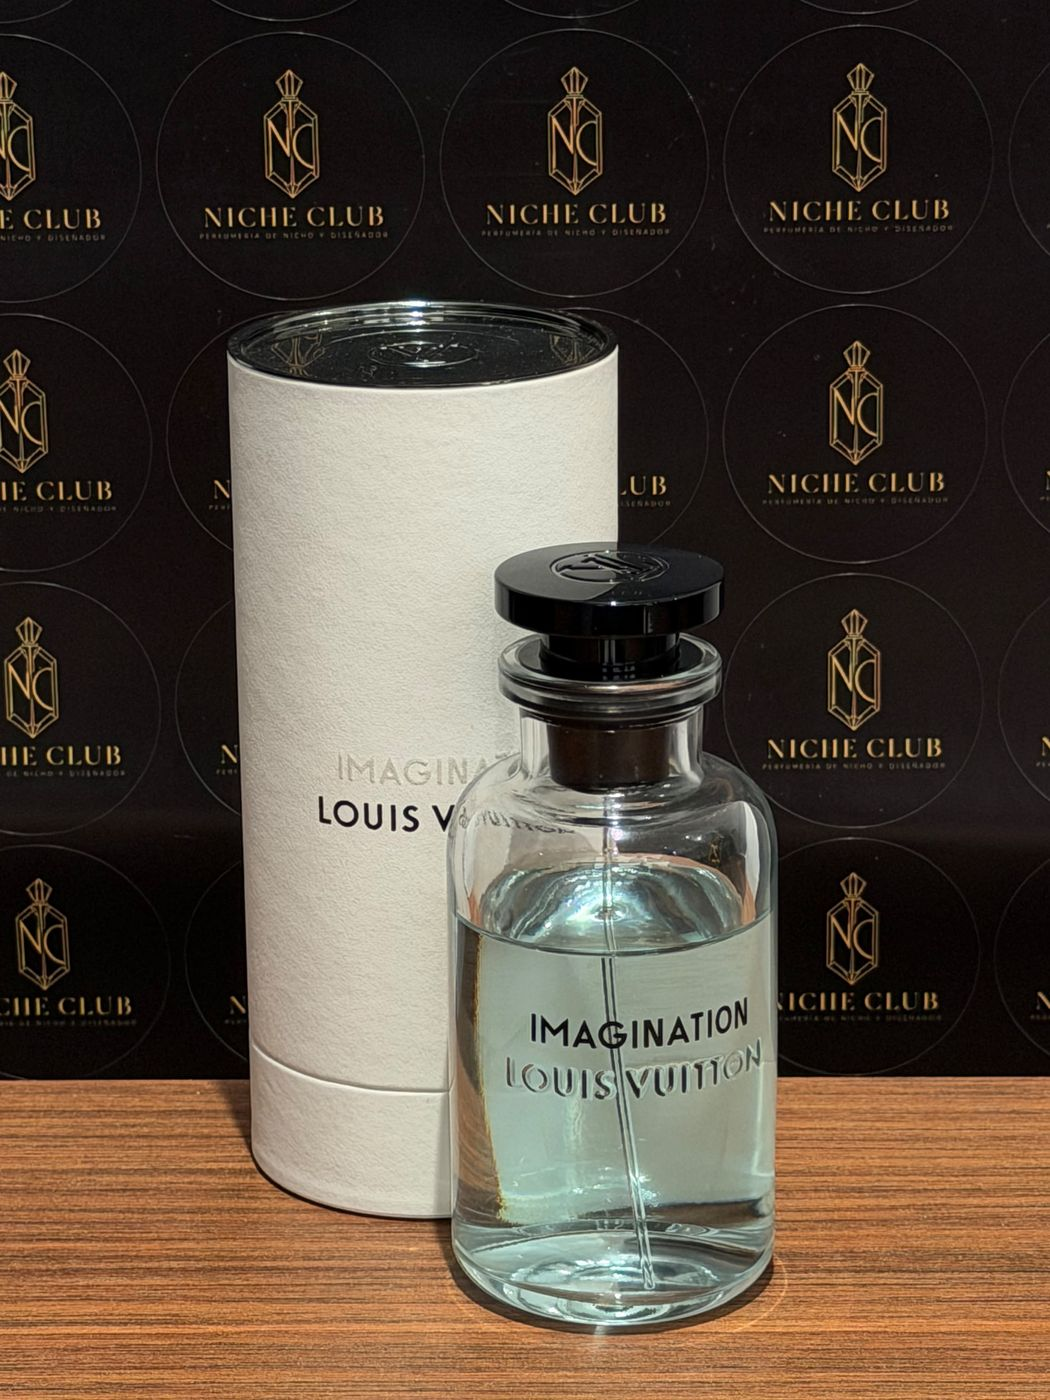
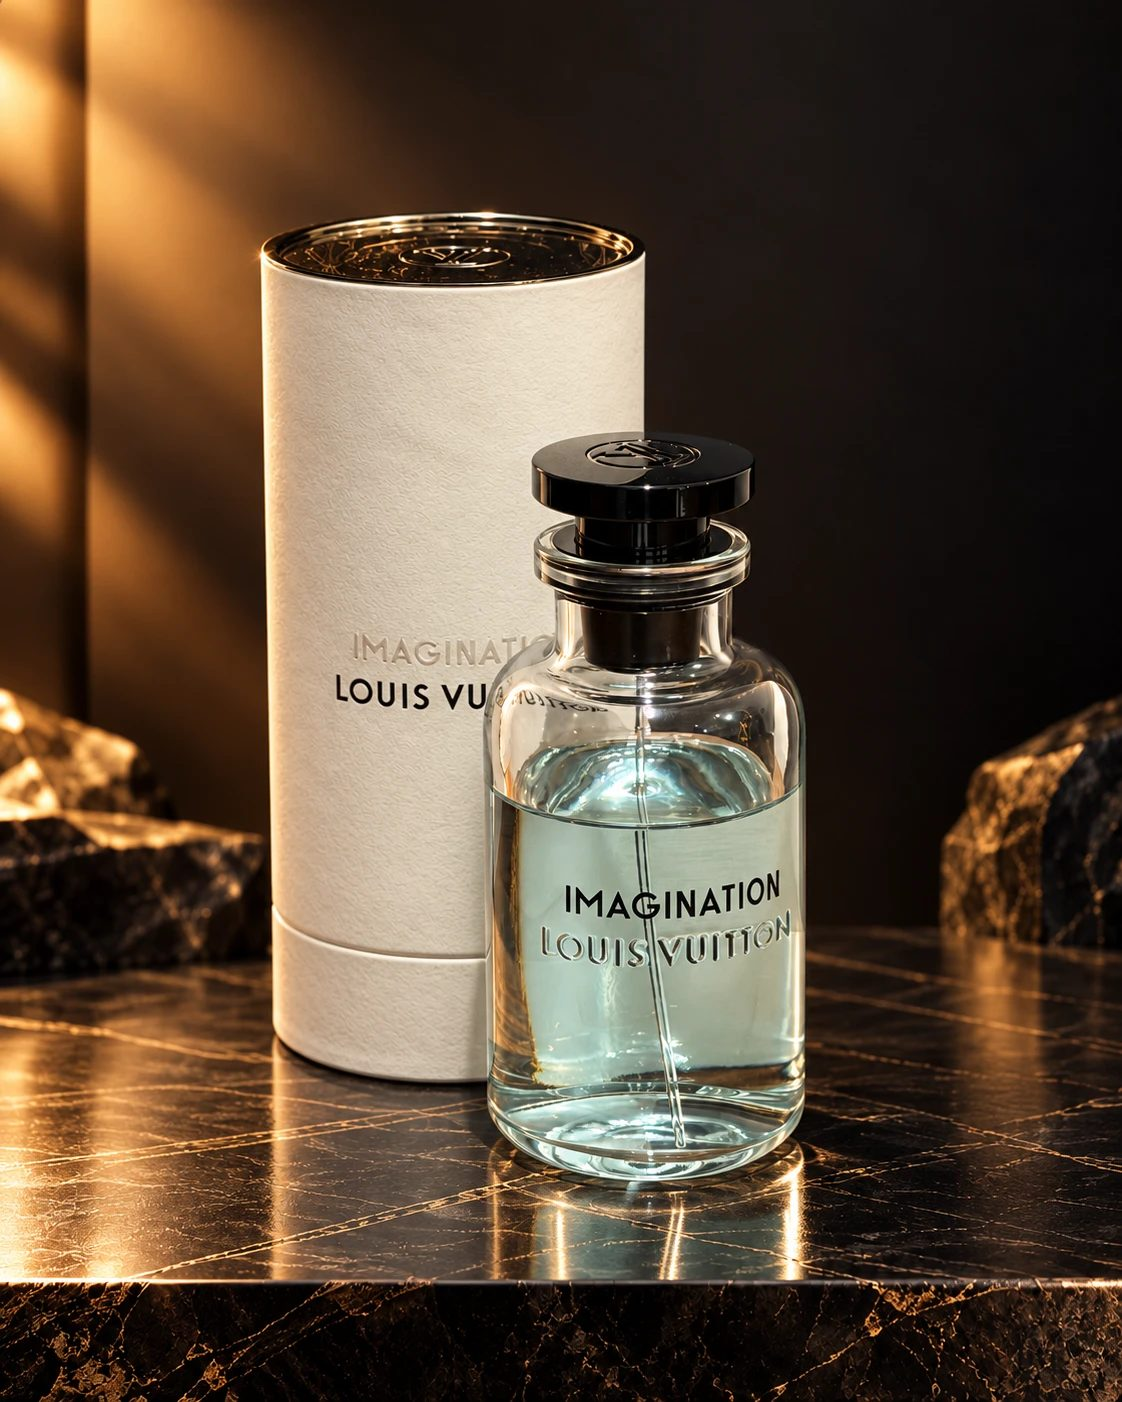
Fotos nuevas, header simplificado, portada más legible, fondo en CTA final y config para Hostinger

diff --git a/Niche Club.dc.html b/Niche Club.dc.html
@@ -94,7 +94,7 @@
 
 <div style="background:#080808;color:#FFFFFF;font-family:'Manrope',sans-serif;overflow-x:hidden">
 
-  <header data-nc-header="1" style="position:sticky;top:0;z-index:40;transition:background .5s ease;background:transparent">
+  <header data-nc-header="1" style="position:sticky;top:0;z-index:40;transition:background .5s ease;background:rgba(8, 8, 8, 0.62);-webkit-backdrop-filter:blur(10px);backdrop-filter:blur(10px);border-bottom:1px solid rgba(227,196,146,0.08)">
     <div class="nc-hd" style="max-width:1400px;margin:0 auto;padding:10px 22px;display:flex;flex-wrap:wrap;align-items:center;gap:8px 18px">
       <a href="#top" style="display:flex;align-items:center;gap:10px;flex:0 0 auto">
         <img src="img/logo.jpeg" alt="Niche Club" style="width:40px;height:40px;object-fit:contain;display:block" />
@@ -102,14 +102,12 @@
       </a>
       <input type="checkbox" id="nc-menu" class="nc-menu-cb" aria-hidden="true" tabindex="-1" />
       <nav class="nc-nav" style="display:flex;gap:18px;overflow-x:auto;margin-right:auto;font:300 11px/1 'Manrope',sans-serif;letter-spacing:.18em;text-transform:uppercase">
-        <a href="#statement" style="color:#CFCAC2;white-space:nowrap;padding:10px 0">Descubrir</a>
         <a href="Fragancias.dc.html" style="color:#CFCAC2;white-space:nowrap;padding:10px 0">Perfumes</a>
         <a href="Fragancias.dc.html#nicho" style="color:#CFCAC2;white-space:nowrap;padding:10px 0">Nicho</a>
         <a href="#disenador" style="color:#CFCAC2;white-space:nowrap;padding:10px 0">Diseñador</a>
         <a href="#arabes" style="color:#CFCAC2;white-space:nowrap;padding:10px 0">Árabes</a>
         <a href="#decants" style="color:#CFCAC2;white-space:nowrap;padding:10px 0">Decants</a>
       </nav>
-      <a class="nc-buscar" href="Fragancias.dc.html#buscar" style="font:300 11px/1 'Manrope',sans-serif;letter-spacing:.18em;text-transform:uppercase;color:#CFCAC2;padding:12px 0;flex:0 0 auto" style-hover="color:#E3C492">Buscar</a>
       <a href="Fragancias.dc.html#carrito" style="display:flex;align-items:center;gap:8px;border:1px solid rgba(227,196,146,0.3);color:#FFFFFF;padding:11px 15px;font:400 11px/1 'Manrope',sans-serif;letter-spacing:.16em;text-transform:uppercase;min-height:44px;white-space:nowrap;flex:0 0 auto;border-radius:999px" style-hover="background:#E3C492;color:#080808;border-color:#E3C492">Carrito <span style="color:#E3C492">{{ cartCount }}</span></a>
       <label for="nc-menu" class="nc-burger" aria-label="Abrir menú"><span></span><span></span><span></span></label>
     </div>
@@ -119,30 +117,30 @@
     <a href="Fragancias.dc.html#nicho" data-nc-panel="1" onMouseOver="{{ onPanelOver }}" onMouseOut="{{ onPanelOut }}" onFocus="{{ onPanelOver }}" onBlur="{{ onPanelOut }}" style="position:relative;flex:1 1 240px;min-height:clamp(280px,50vh,1100px);overflow:hidden;display:flex;align-items:flex-end;justify-content:center;filter:brightness(0.86);transition:flex-grow .7s cubic-bezier(.2,.7,.2,1),filter .7s ease">
       <img src="img/layton-exclusif.jpeg" alt="Parfums de Marly Layton Exclusif en Niche Club" style="position:absolute;inset:0;width:100%;height:100%;object-fit:cover;object-position:center 42%;display:block" />
       <span style="position:absolute;inset:0;background:linear-gradient(180deg,rgba(8,8,8,0.6) 0%,rgba(8,8,8,0.34) 28%,rgba(8,8,8,0.42) 50%,rgba(8,8,8,0.8) 100%)"></span>
-      <span style="position:relative;z-index:2;display:flex;flex-direction:column;align-items:center;gap:14px;padding:0 22px clamp(96px,15vh,150px);text-align:center">
-        <span style="font:300 clamp(24px,3.4vw,44px)/1.1 'Cormorant Garamond',serif;color:#FFFFFF;letter-spacing:.01em;text-shadow:0 2px 18px rgba(8,8,8,0.9)">Nicho y Diseñador</span>
+      <span style="position:relative;z-index:2;display:flex;flex-direction:column;align-items:center;gap:10px;padding:0 22px clamp(66px,9vh,96px);text-align:center">
+        <span style="font:300 clamp(20px,2.3vw,32px)/1.1 'Cormorant Garamond',serif;color:#FFFFFF;letter-spacing:.01em;text-shadow:0 2px 18px rgba(8,8,8,0.9)">Nicho y Diseñador</span>
         <span style="font:400 11px/1 'Manrope',sans-serif;letter-spacing:.22em;text-transform:uppercase;color:#FFFFFF;border-bottom:1px solid rgba(255,255,255,0.85);padding-bottom:5px;text-shadow:0 1px 12px rgba(8,8,8,0.9)">Descubrir</span>
       </span>
     </a>
     <a href="Fragancias.dc.html#arabes" data-nc-panel="2" onMouseOver="{{ onPanelOver }}" onMouseOut="{{ onPanelOut }}" onFocus="{{ onPanelOver }}" onBlur="{{ onPanelOut }}" style="position:relative;flex:1 1 240px;min-height:clamp(280px,50vh,1100px);overflow:hidden;display:flex;align-items:flex-end;justify-content:center;filter:brightness(0.86);transition:flex-grow .7s cubic-bezier(.2,.7,.2,1),filter .7s ease">
-      <img src="img/bharara-king.jpeg" alt="Bharara King en Niche Club" style="position:absolute;inset:0;width:100%;height:100%;object-fit:cover;object-position:center 46%;display:block" />
+      <img src="img/bharara-king-portada.jpeg" alt="Bharara King en Niche Club" style="position:absolute;inset:0;width:100%;height:100%;object-fit:cover;object-position:center 46%;display:block" />
       <span style="position:absolute;inset:0;background:linear-gradient(180deg,rgba(8,8,8,0.6) 0%,rgba(8,8,8,0.34) 28%,rgba(8,8,8,0.42) 50%,rgba(8,8,8,0.8) 100%)"></span>
-      <span style="position:relative;z-index:2;display:flex;flex-direction:column;align-items:center;gap:14px;padding:0 22px clamp(96px,15vh,150px);text-align:center">
-        <span style="font:300 clamp(24px,3.4vw,44px)/1.1 'Cormorant Garamond',serif;color:#FFFFFF;letter-spacing:.01em;text-shadow:0 2px 18px rgba(8,8,8,0.9)">Perfumería Árabe</span>
+      <span style="position:relative;z-index:2;display:flex;flex-direction:column;align-items:center;gap:10px;padding:0 22px clamp(66px,9vh,96px);text-align:center">
+        <span style="font:300 clamp(20px,2.3vw,32px)/1.1 'Cormorant Garamond',serif;color:#FFFFFF;letter-spacing:.01em;text-shadow:0 2px 18px rgba(8,8,8,0.9)">Perfumería Árabe</span>
         <span style="font:400 11px/1 'Manrope',sans-serif;letter-spacing:.22em;text-transform:uppercase;color:#FFFFFF;border-bottom:1px solid rgba(255,255,255,0.85);padding-bottom:5px;text-shadow:0 1px 12px rgba(8,8,8,0.9)">Descubrir</span>
       </span>
     </a>
     <a href="Niche Club.dc.html#decants" data-nc-panel="3" onMouseOver="{{ onPanelOver }}" onMouseOut="{{ onPanelOut }}" onFocus="{{ onPanelOver }}" onBlur="{{ onPanelOut }}" style="position:relative;flex:1 1 240px;min-height:clamp(280px,50vh,1100px);overflow:hidden;display:flex;align-items:flex-end;justify-content:center;filter:brightness(0.86);transition:flex-grow .7s cubic-bezier(.2,.7,.2,1),filter .7s ease">
       <img src="img/creed-aventus.jpeg" alt="Creed Aventus junto a decants de 5 ml y 10 ml" style="position:absolute;inset:0;width:100%;height:100%;object-fit:cover;object-position:center 52%;display:block" />
       <span style="position:absolute;inset:0;background:linear-gradient(180deg,rgba(8,8,8,0.6) 0%,rgba(8,8,8,0.34) 28%,rgba(8,8,8,0.42) 50%,rgba(8,8,8,0.8) 100%)"></span>
-      <span style="position:relative;z-index:2;display:flex;flex-direction:column;align-items:center;gap:14px;padding:0 22px clamp(96px,15vh,150px);text-align:center">
-        <span style="font:300 clamp(24px,3.4vw,44px)/1.1 'Cormorant Garamond',serif;color:#FFFFFF;letter-spacing:.01em;text-shadow:0 2px 18px rgba(8,8,8,0.9)">Decants 5 y 10 ml</span>
+      <span style="position:relative;z-index:2;display:flex;flex-direction:column;align-items:center;gap:10px;padding:0 22px clamp(66px,9vh,96px);text-align:center">
+        <span style="font:300 clamp(20px,2.3vw,32px)/1.1 'Cormorant Garamond',serif;color:#FFFFFF;letter-spacing:.01em;text-shadow:0 2px 18px rgba(8,8,8,0.9)">Decants 5 y 10 ml</span>
         <span style="font:400 11px/1 'Manrope',sans-serif;letter-spacing:.22em;text-transform:uppercase;color:#FFFFFF;border-bottom:1px solid rgba(255,255,255,0.85);padding-bottom:5px;text-shadow:0 1px 12px rgba(8,8,8,0.9)">Descubrir</span>
       </span>
     </a>
-    <div style="position:absolute;left:0;right:0;top:44%;transform:translateY(-50%);z-index:3;display:flex;flex-direction:column;align-items:center;gap:12px;pointer-events:none;padding:0 16px;text-align:center">
+    <div style="position:absolute;left:0;right:0;top:44%;transform:translateY(-50%);z-index:3;display:flex;flex-direction:column;align-items:center;gap:16px;pointer-events:none;padding:clamp(40px,6vw,80px) 16px;text-align:center;background:radial-gradient(ellipse 46% 50% at 50% 50%,rgba(8,8,8,0.62) 0%,rgba(8,8,8,0.38) 45%,rgba(8,8,8,0) 100%)">
       <h1 style="margin:0;font:300 clamp(26px,6.4vw,88px)/1 'Cormorant Garamond',serif;letter-spacing:.12em;color:#FFFFFF;text-shadow:0 2px 26px rgba(8,8,8,0.95),0 1px 3px rgba(8,8,8,0.9)">NICHE CLUB</h1>
-      <span style="font:400 clamp(8px,1vw,11px)/1.5 'Manrope',sans-serif;letter-spacing:.34em;text-transform:uppercase;color:#EED9AE;text-shadow:0 1px 14px rgba(8,8,8,0.95)">Perfumería de nicho y diseñador</span>
+      <span style="font:500 clamp(10px,1.15vw,14px)/1.5 'Manrope',sans-serif;letter-spacing:.3em;text-transform:uppercase;color:#F6E7C6;text-shadow:0 1px 2px rgba(8,8,8,0.95),0 0 18px rgba(8,8,8,0.9)">Perfumería de nicho y diseñador</span>
     </div>
     <span aria-hidden="true" style="position:absolute;left:50%;bottom:clamp(26px,5vh,46px);transform:translateX(-50%);z-index:3;font:400 9px/1 'Manrope',sans-serif;letter-spacing:.3em;text-transform:uppercase;color:rgba(255,255,255,0.82);text-shadow:0 1px 12px rgba(8,8,8,0.9)">5 ml · 10 ml</span>
   </section>
@@ -362,7 +360,7 @@
 
   <section id="arabes" data-screen-label="Árabes" style="padding:0 22px clamp(60px,8vw,130px)">
     <div style="max-width:1400px;margin:0 auto;border-top:1px solid rgba(227,196,146,0.12);padding-top:clamp(40px,5vw,70px);display:grid;grid-template-columns:repeat(auto-fit,minmax(290px,1fr));gap:clamp(28px,4vw,70px);align-items:center">
-      <img src="img/bharara-king.jpeg" alt="Bharara King" loading="lazy" style="width:100%;max-height:clamp(320px,58vh,640px);aspect-ratio:4/3.4;object-fit:cover;display:block;border-radius:18px" />
+      <img src="img/bharara-king-v2.jpeg" alt="Bharara King" loading="lazy" style="width:100%;max-height:clamp(320px,58vh,640px);aspect-ratio:4/3.4;object-fit:cover;display:block;border-radius:18px" />
       <div>
         <h2 style="margin:0;max-width:18ch;font:300 clamp(28px,4vw,52px)/1.06 'Cormorant Garamond',serif;color:#FBF8F2;text-wrap:pretty">Otra forma de descubrir perfumería.</h2>
         <p style="margin:18px 0 0;max-width:400px;font:300 15px/1.75 'Manrope',sans-serif;color:#A9A49A">Rasasi, Afnan, Armaf, Bharara y Maison Alhambra: carácter y proyección a un precio accesible para empezar.</p>
@@ -371,9 +369,10 @@
     </div>
   </section>
 
-  <section data-screen-label="CTA final" style="background:#FFFFFF;color:#111010;padding:clamp(70px,10vw,150px) 22px;text-align:center">
-    <h2 style="margin:0 auto;max-width:20ch;font:300 clamp(30px,4.6vw,64px)/1.05 'Cormorant Garamond',serif;letter-spacing:-0.01em;text-wrap:pretty">Elegí la que te intriga. Probala. Después decidí.</h2>
-    <a href="Fragancias.dc.html" style="display:inline-block;margin-top:34px;background:#111010;color:#FFFFFF;padding:17px 30px;font:500 11px/1 'Manrope',sans-serif;letter-spacing:.2em;text-transform:uppercase;border-radius:999px" style-hover="background:#8A6B2E">Ver todas las fragancias</a>
+  <section data-screen-label="CTA final" style="position:relative;display:flex;flex-direction:column;align-items:center;justify-content:center;min-height:clamp(420px,62vh,640px);background:#0E0B08 url(img/coleccion-fondo.jpeg) center 60%/cover no-repeat;color:#FFFFFF;padding:clamp(70px,10vw,150px) 22px;text-align:center;overflow:hidden">
+    <span aria-hidden="true" style="position:absolute;inset:0;background:radial-gradient(ellipse 60% 70% at 50% 50%,rgba(8,8,8,0.7) 0%,rgba(8,8,8,0.45) 55%,rgba(8,8,8,0.25) 100%)"></span>
+    <h2 style="position:relative;margin:0 auto;max-width:20ch;font:300 clamp(30px,4.6vw,64px)/1.05 'Cormorant Garamond',serif;letter-spacing:-0.01em;text-wrap:pretty;color:#FFFFFF;text-shadow:0 2px 24px rgba(8,8,8,0.85)">Elegí la que te intriga. Probala. Después decidí.</h2>
+    <a href="Fragancias.dc.html" style="position:relative;display:inline-block;margin-top:34px;background:#FFFFFF;color:#080808;padding:17px 30px;font:500 11px/1 'Manrope',sans-serif;letter-spacing:.2em;text-transform:uppercase;border-radius:999px;box-shadow:0 12px 30px -10px rgba(0,0,0,0.6)" style-hover="background:#E3C492;color:#080808">Ver todas las fragancias</a>
   </section>
 
   <footer style="padding:clamp(44px,5vw,68px) 22px 26px;border-top:1px solid rgba(227,196,146,0.1)">
@@ -447,7 +446,7 @@ class Component extends DCLogic {
       const el = document.querySelector('[data-nc-header]');
       if (!el) return;
       const past = window.scrollY > Math.max(120, window.innerHeight * 0.6);
-      const want = past ? 'rgba(8, 8, 8, 0.94)' : 'transparent';
+      const want = past ? 'rgba(8, 8, 8, 0.94)' : 'rgba(8, 8, 8, 0.62)';
       if (el.style.background !== want) el.style.background = want;
       const tr = document.getElementById('nc-edit-track');
       if (tr && !tr.classList.contains('nc-in') && tr.getBoundingClientRect().top < window.innerHeight * 0.9) tr.classList.add('nc-in');
@@ -458,7 +457,7 @@ class Component extends DCLogic {
     };
     window.addEventListener('scroll', this._onScroll, { passive: true });
     this._onScroll();
-    import('./catalog.js').then(m => {
+    import('./catalog.js?v=2').then(m => {
       this.mod = m;
       const cart = m.readCart();
       this.setState({ data: m.PRODUCTS, count: cart.reduce((t, l) => t + l.qty, 0) });

diff --git a/catalog.js b/catalog.js
@@ -10,15 +10,15 @@ export const PRODUCTS = [
   { id: 'tf-costa-azzurra', brand: 'Tom Ford', name: 'Costa Azzurra', type: 'Nicho', img: 'img/tf-costa-azzurra.jpeg', p5: 180000, p10: 300000, status: 'Disponible' },
   { id: 'sauvage-elixir', brand: 'Dior', name: 'Sauvage Elixir', type: 'Diseñador', img: 'img/sauvage-elixir.jpeg', p5: 130000, p10: 190000, status: 'Disponible' },
   { light: true, id: 'ysl-y-edp', brand: 'Yves Saint Laurent', name: 'Y Eau de Parfum', type: 'Diseñador', img: 'img/ysl-y-edp.jpeg', p5: 75000, p10: 130000, status: 'Disponible' },
-  { id: 'swy-powerfully', brand: 'Emporio Armani', name: 'Stronger With You Powerfully', type: 'Diseñador', img: 'img/stronger-with-you-powerfully.jpeg', p5: 80000, p10: 150000, status: 'Disponible' },
+  { id: 'swy-powerfully', brand: 'Emporio Armani', name: 'Stronger With You Powerfully', type: 'Diseñador', img: 'img/stronger-with-you-powerfully-v2.jpeg', p5: 80000, p10: 150000, status: 'Disponible' },
   { light: true, id: 'power-of-you', brand: 'Emporio Armani', name: 'Power of You', type: 'Diseñador', img: 'img/power-of-you.jpeg', p5: 90000, p10: 130000, status: 'Disponible' },
   { light: true, id: 'adg-profondo', brand: 'Giorgio Armani', name: 'Acqua di Giò Profondo', type: 'Diseñador', img: 'img/acqua-di-gio-profondo.jpeg', p5: 60000, p10: 110000, status: 'Disponible' },
   { light: true, id: 'le-beau-le-parfum', brand: 'Jean Paul Gaultier', name: 'Le Beau Le Parfum', type: 'Diseñador', img: 'img/le-beau-le-parfum.jpeg', p5: 60000, p10: 115000, status: 'Disponible' },
   { light: true, id: 'hawas-malibu', brand: 'Rasasi', name: 'Hawas Malibu', type: 'Árabe', img: 'img/hawas-malibu.jpeg', p5: 35000, p10: 50000, status: 'Disponible' },
-  { id: 'hawas-ice', brand: 'Rasasi', name: 'Hawas Ice', type: 'Árabe', img: 'img/hawas-ice.jpeg', p5: 40000, p10: 60000, status: 'Disponible' },
+  { id: 'hawas-ice', brand: 'Rasasi', name: 'Hawas Ice', type: 'Árabe', img: 'img/hawas-ice-v2.jpeg', p5: 40000, p10: 60000, status: 'Disponible' },
   { light: true, id: 'supremacy-collectors', brand: 'Afnan', name: "Supremacy Collector's Edition", type: 'Árabe', img: 'img/supremacy-collectors.jpeg', p5: 50000, p10: 70000, status: 'Disponible' },
   { id: 'afnan-9pm', brand: 'Afnan', name: '9PM Rebel', type: 'Árabe', img: 'img/afnan-9pm.jpeg', p5: 35000, p10: 50000, status: 'Disponible' },
-  { id: 'bharara-king', brand: 'Bharara', name: 'King', type: 'Árabe', img: 'img/bharara-king.jpeg', p5: 50000, p10: 70000, status: 'Disponible' },
+  { id: 'bharara-king', brand: 'Bharara', name: 'King', type: 'Árabe', img: 'img/bharara-king-v2.jpeg', p5: 50000, p10: 70000, status: 'Disponible' },
   { light: true, id: 'odyssey-aqua', brand: 'Armaf', name: 'Odyssey Aqua Edition', type: 'Árabe', img: 'img/odyssey-aqua.jpeg', p5: 30000, p10: 45000, status: 'Disponible' },
   { light: true, id: 'philos-pura', brand: 'Maison Alhambra', name: 'Philos Pura', type: 'Árabe', img: 'img/philos-pura.jpeg', p5: 35000, p10: 50000, status: 'Disponible' }
 ];

diff --git a/privacidad.html b/privacidad.html
@@ -86,7 +86,7 @@
     <li><strong>WhatsApp (Meta)</strong>, para recibir pedidos y consultas.</li>
     <li><strong>Instagram (Meta)</strong>, si seguís el enlace a nuestro perfil.</li>
     <li><strong>Google Fonts</strong> y <strong>unpkg</strong>, que entregan tipografías y parte del código del sitio. Tu navegador se conecta a ellos al cargar la página.</li>
-    <li><strong>Vercel</strong>, que aloja el sitio.</li>
+    <li><strong>Hostinger</strong>, que aloja el sitio.</li>
   </ul>
 
   <h2>5. Cuánto tiempo la guardamos</h2>

diff --git a/Fragancias.dc.html b/Fragancias.dc.html
@@ -344,7 +344,7 @@ class Component extends DCLogic {
       const cb = document.getElementById('nc-menu');
       if (cb) cb.checked = false;
     });
-    import('./catalog.js').then(m => {
+    import('./catalog.js?v=2').then(m => {
       this.mod = m;
       const hash = decodeURIComponent((location.hash || '').replace('#', '')).toLowerCase();
       const map = { nicho: 'Nicho', disenador: 'Diseñador', arabes: 'Árabe' };
